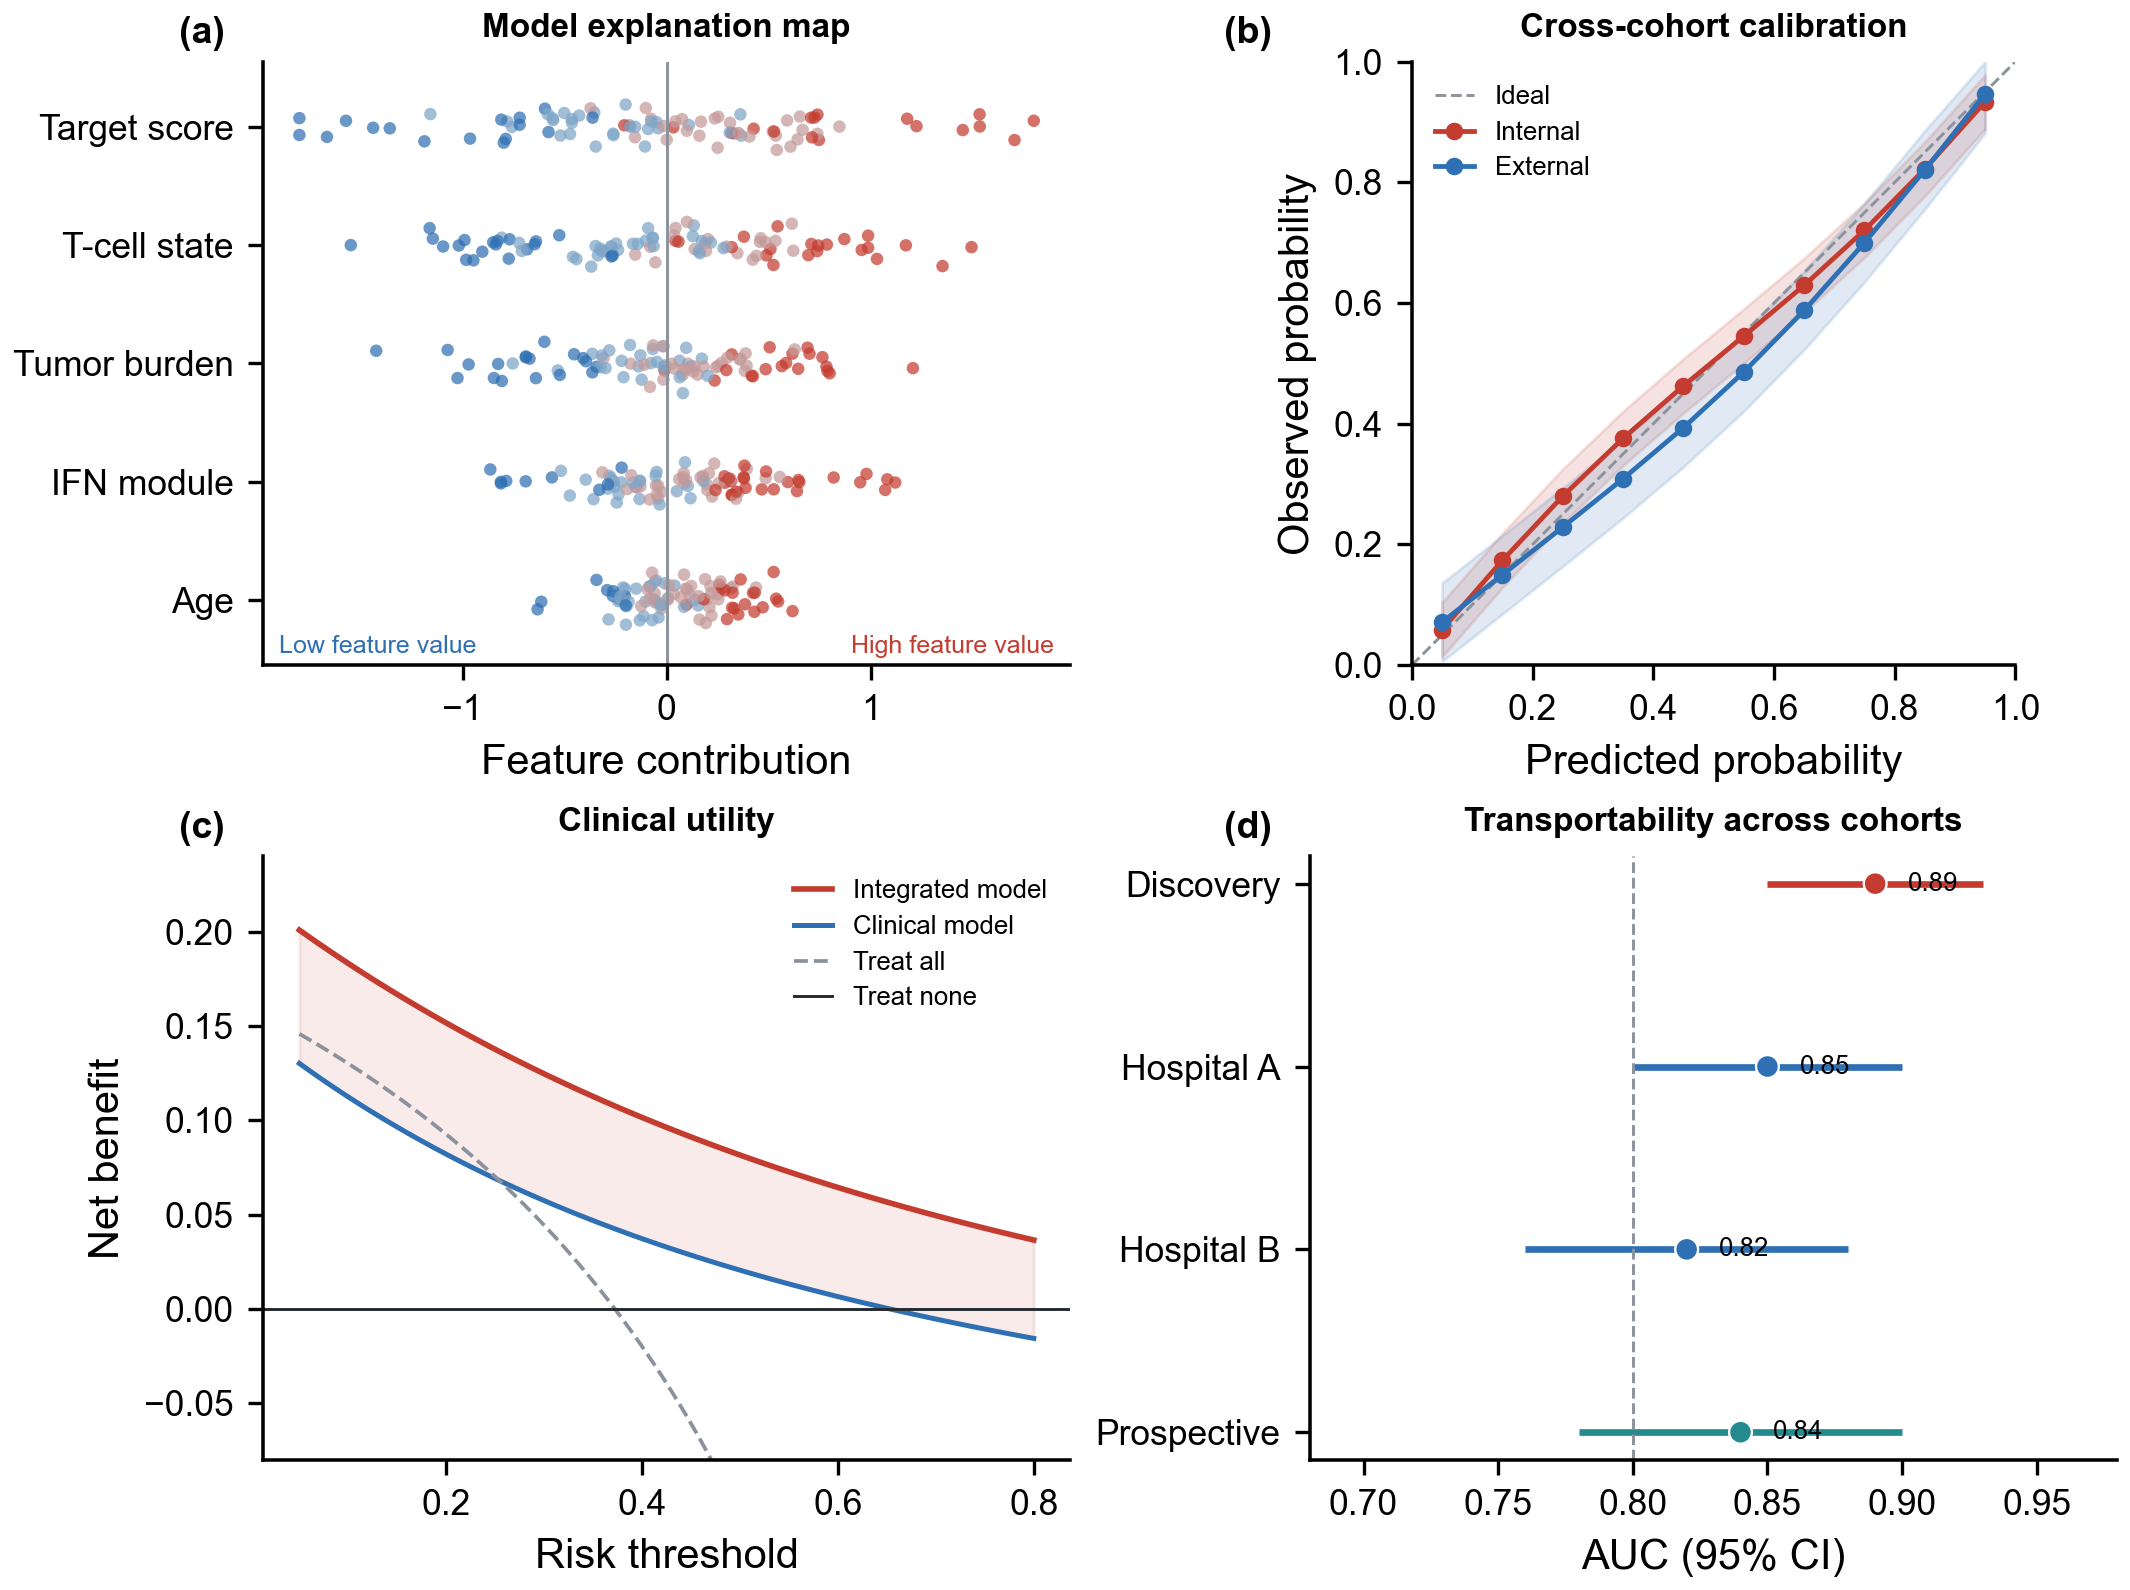
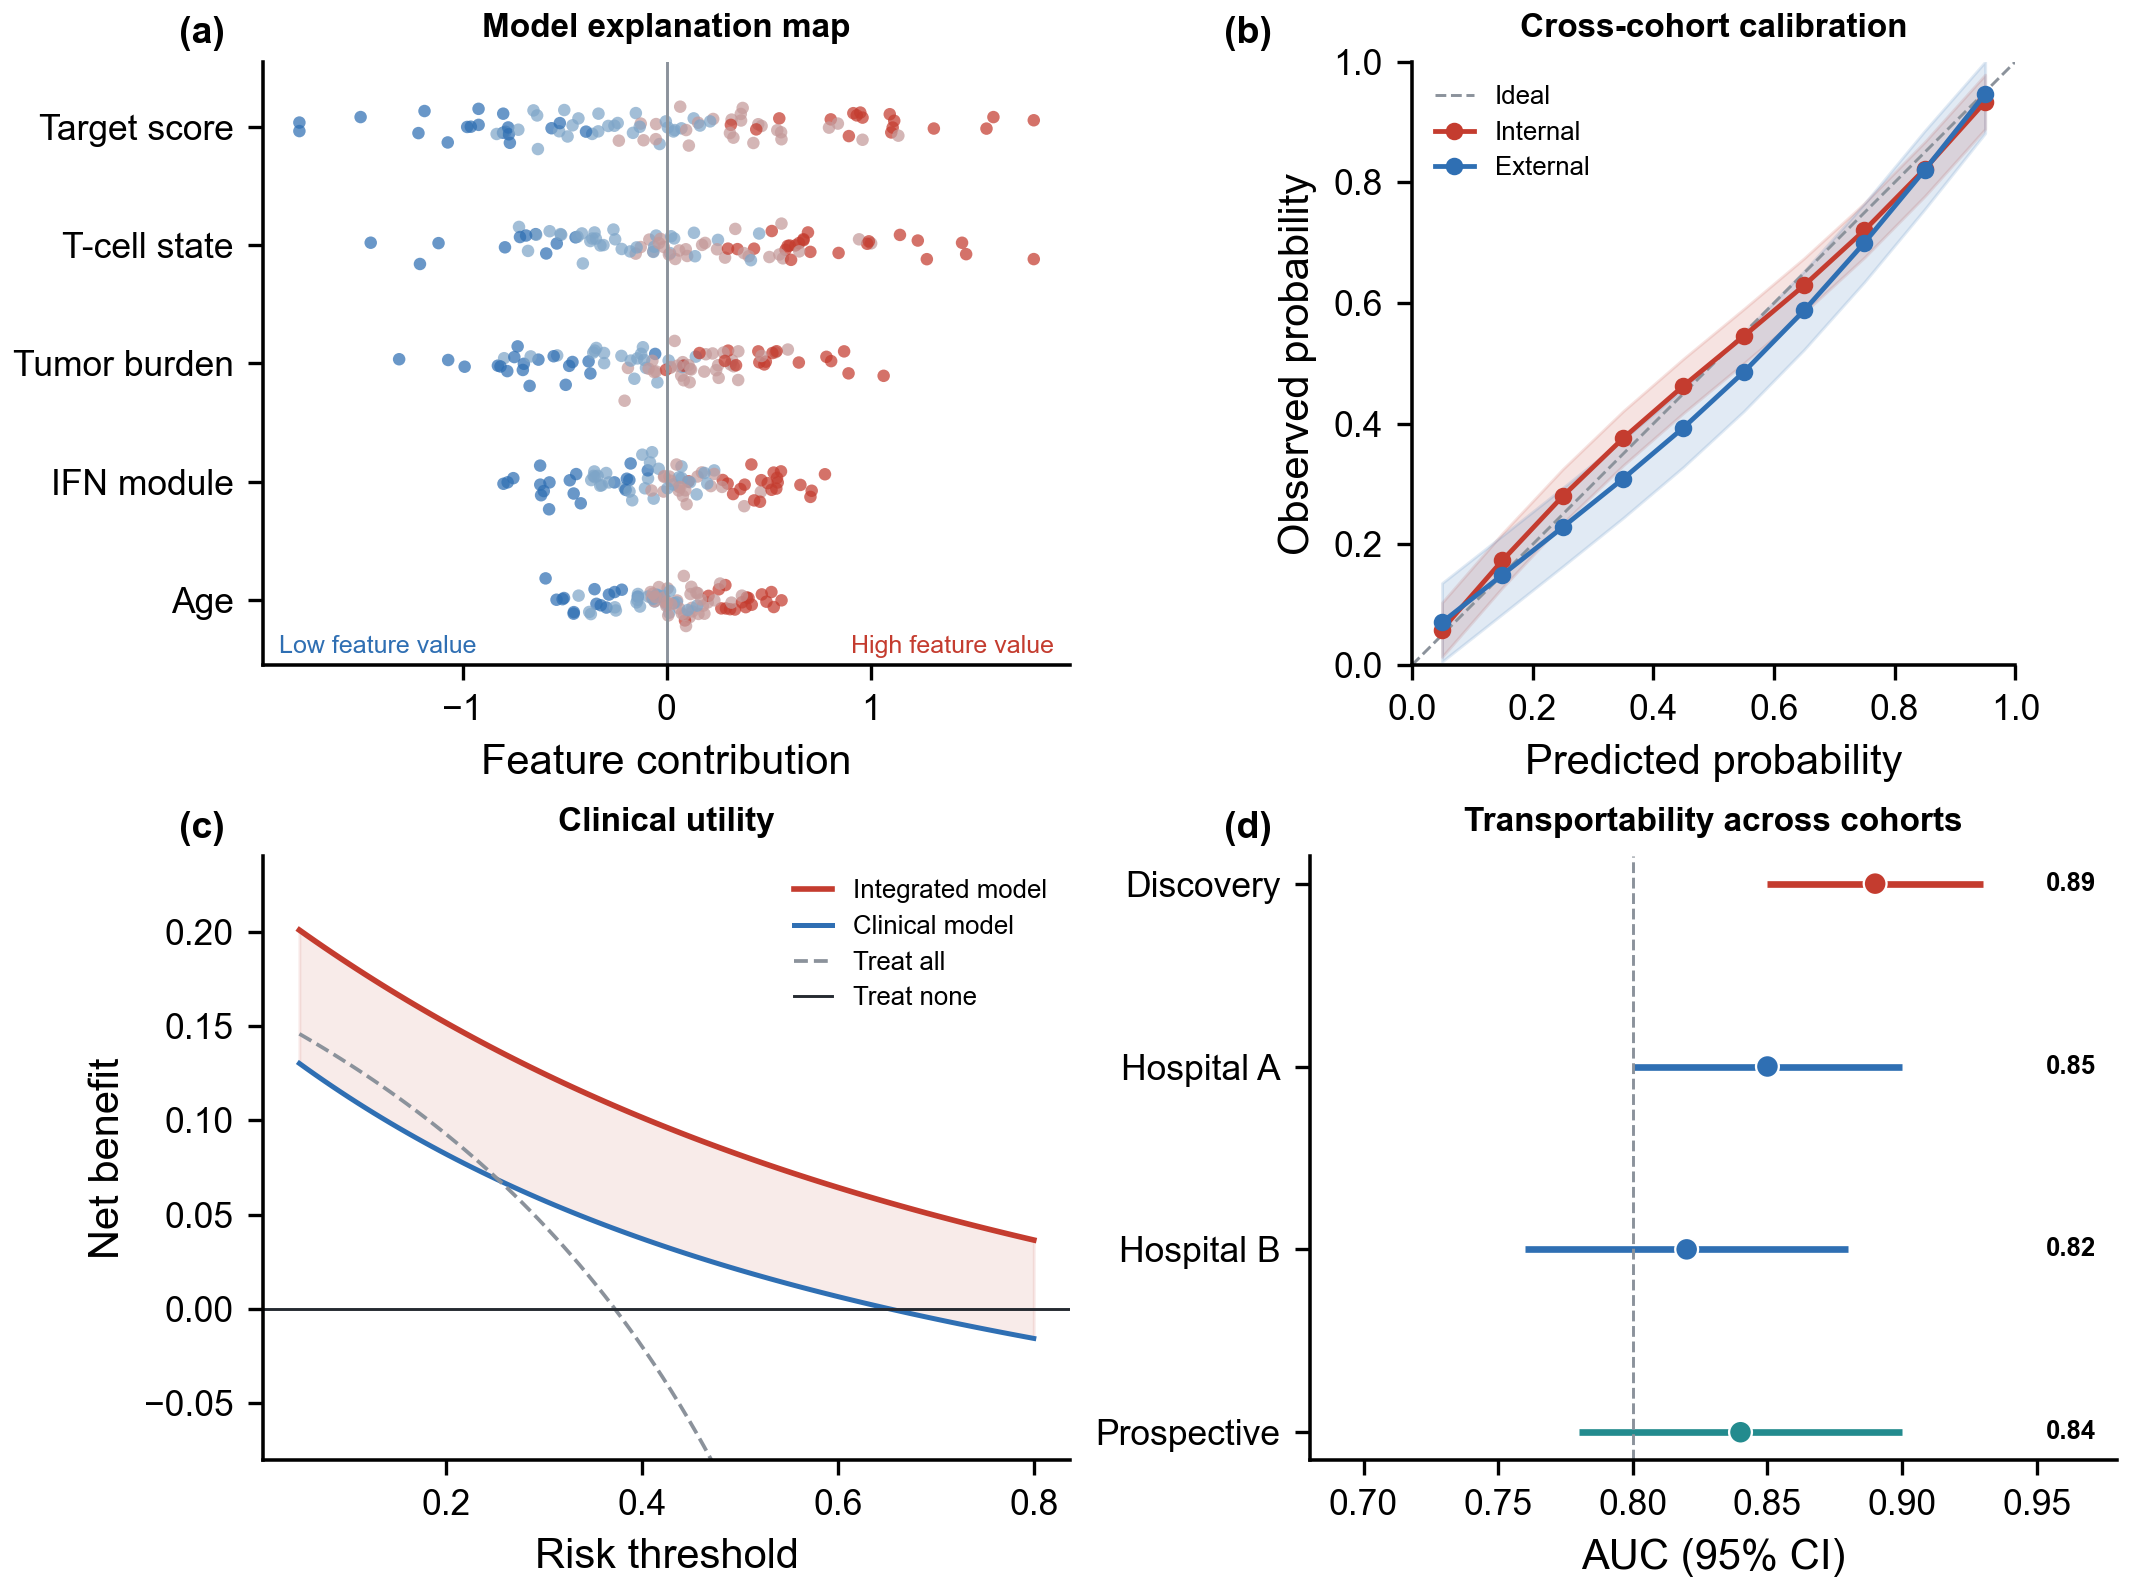
Fix showcase readability and atlas realism

diff --git a/demo/figure_sources/make_demo_suite.py b/demo/figure_sources/make_demo_suite.py
@@ -12,7 +12,8 @@ import matplotlib
 matplotlib.use("Agg")
 import matplotlib.pyplot as plt
 import numpy as np
-from matplotlib.patches import Circle, FancyArrowPatch, Patch
+from matplotlib.path import Path as MplPath
+from matplotlib.patches import Circle, FancyArrowPatch, Patch, Polygon
 from matplotlib.ticker import NullFormatter
 
 
@@ -298,86 +299,135 @@ def figure_4_cell_atlas() -> None:
     fig, axs = plt.subplots(2, 2, figsize=(7.1, 5.3), constrained_layout=True)
     a, b, c, d = axs.ravel()
 
-    # Synthetic low-dimensional cell atlas.
-    centers = np.array([[-2.1, 1.0], [-0.5, -1.2], [1.7, 1.1], [2.2, -1.4]])
-    names = ["T cell", "Myeloid", "Tumor", "Stromal"]
-    colors = [BLUE, GOLD, RED, TEAL]
-    for i, (center, name, color) in enumerate(zip(centers, names, colors)):
-        cloud = rng.normal(size=(150, 2)) @ np.array([[0.58, 0.10], [0.0, 0.38]])
-        cloud += center
-        a.scatter(cloud[:, 0], cloud[:, 1], s=7, color=color, alpha=0.64,
+    # Organic, non-isotropic UMAP-like manifolds with related immune states nearby.
+    specs = [
+        ("CD4 T", BLUE, (-2.55, 1.10), (0.68, 0.30), 18, 0.22, 260),
+        ("CD8 T", "#6FA4D1", (-1.35, 1.55), (0.74, 0.26), -12, -0.18, 280),
+        ("NK", GREEN, (-0.25, 1.28), (0.40, 0.22), 6, 0.12, 150),
+        ("B", PURPLE, (-2.80, -0.12), (0.40, 0.27), -8, -0.10, 135),
+        ("Myeloid", GOLD, (-1.10, -0.75), (0.92, 0.48), -14, 0.28, 420),
+        ("Tumor", RED, (1.45, 0.48), (1.10, 0.58), 14, -0.34, 520),
+        ("Fibroblast", TEAL, (1.55, -1.18), (0.78, 0.27), 17, 0.22, 230),
+        ("Endothelial", "#7B8794", (0.20, -1.18), (0.44, 0.23), -8, -0.12, 140),
+    ]
+    label_positions = {
+        "CD4 T": (-3.25, 1.95), "CD8 T": (-1.55, 2.20), "NK": (-0.18, 1.95),
+        "B": (-3.35, -0.72), "Myeloid": (-1.30, -1.85), "Tumor": (2.45, 1.70),
+        "Fibroblast": (2.20, -1.80), "Endothelial": (0.15, -1.78),
+    }
+    for name, color, center, scale, angle, bend, n in specs:
+        z = rng.normal(size=(n, 2))
+        z[:, 0] += bend * (z[:, 1] ** 2 - 1) + 0.08 * np.sin(3 * z[:, 1])
+        z[:, 1] += 0.09 * np.sin(2.2 * z[:, 0])
+        z *= np.asarray(scale)
+        radians = np.deg2rad(angle)
+        rotation = np.array([[np.cos(radians), -np.sin(radians)],
+                             [np.sin(radians), np.cos(radians)]])
+        cloud = z @ rotation.T + np.asarray(center)
+        a.scatter(cloud[:, 0], cloud[:, 1], s=3.4, color=color, alpha=0.70,
                   edgecolor="none", rasterized=False)
-        offset = (0.0, 0.74 if i != 1 else -0.74)
-        a.text(center[0] + offset[0], center[1] + offset[1], name,
-               ha="center", va="center", color=color, fontsize=6.5,
-               fontweight="bold")
-    a.set(xlabel="UMAP 1", ylabel="UMAP 2", title="Single-cell atlas")
+        a.annotate(name, xy=center, xytext=label_positions[name],
+                   color=color, fontsize=5.8, fontweight="bold", ha="center",
+                   arrowprops={"arrowstyle": "-", "color": color, "lw": 0.55})
+    a.set(xlabel="UMAP 1", ylabel="UMAP 2", title="Integrated cell atlas",
+          xlim=(-3.9, 3.1), ylim=(-2.15, 2.45))
     a.set_xticks([])
     a.set_yticks([])
 
-    # Branched pseudotime with discrete color steps to keep SVG fully vector.
-    t = np.linspace(0, 1, 95)
-    trunk_x = -2.7 + 3.0 * t
-    trunk_y = -0.6 + 0.55 * np.sin(np.pi * t)
-    branches = [
-        (trunk_x, trunk_y),
-        (0.15 + 2.4 * t, -0.08 + 1.45 * t + 0.12 * np.sin(5 * t)),
-        (0.15 + 2.4 * t, -0.08 - 1.35 * t + 0.10 * np.sin(5 * t)),
-    ]
+    # Myeloid subclustering with a fitted principal trajectory over the embedding.
+    t_main = rng.uniform(0, 1, 620)
+    main_x = -2.55 + 4.75 * t_main + 0.18 * np.sin(3 * np.pi * t_main)
+    main_y = 0.62 * np.sin(1.35 * np.pi * t_main) - 0.22 * t_main
+    main_x += rng.normal(0, 0.13, len(t_main))
+    main_y += rng.normal(0, 0.15, len(t_main))
+    t_branch = rng.uniform(0.42, 1, 230)
+    s = (t_branch - 0.42) / 0.58
+    branch_x = -0.55 + 2.25 * s + rng.normal(0, 0.13, len(s))
+    branch_y = 0.48 - 1.55 * s + 0.10 * np.sin(2 * np.pi * s)
+    branch_y += rng.normal(0, 0.13, len(s))
+    tx = np.r_[main_x, branch_x]
+    ty = np.r_[main_y, branch_y]
+    pseudotime = np.r_[t_main, t_branch]
     time_colors = ["#D9E8F5", "#A7CBE5", "#6EA7D0", "#3E7EB6", "#1F568B"]
-    for j, (x, y) in enumerate(branches):
-        b.plot(x, y, color=LIGHT, lw=2.0, zorder=1)
-        for k, color in enumerate(time_colors):
-            mask = (t >= k / 5) & (t <= (k + 1) / 5)
-            jitter_x = rng.normal(0, 0.035, mask.sum())
-            jitter_y = rng.normal(0, 0.045, mask.sum())
-            b.scatter(x[mask] + jitter_x, y[mask] + jitter_y, s=8,
-                      color=color, edgecolor="none", zorder=2)
-        if j:
-            b.annotate("", xy=(x[-1], y[-1]), xytext=(x[-8], y[-8]),
-                       arrowprops={"arrowstyle": "-|>", "color": DARK,
-                                   "lw": 0.8})
-    b.text(-2.65, -0.92, "Early", color=GRAY, fontsize=6)
-    b.text(2.55, 1.54, "Inflammatory", color=BLUE, fontsize=6, ha="right")
-    b.text(2.55, -1.62, "Exhausted", color=BLUE, fontsize=6, ha="right")
-    b.set(xlabel="Latent dimension 1", ylabel="Latent dimension 2",
-          title="Branched cell-state trajectory")
+    for k, color in enumerate(time_colors):
+        mask = (pseudotime >= k / 5) & (pseudotime <= (k + 1) / 5)
+        b.scatter(tx[mask], ty[mask], s=4.2, color=color, edgecolor="none", alpha=0.76)
+    curve_t = np.linspace(0, 1, 160)
+    b.plot(-2.55 + 4.75 * curve_t + 0.18 * np.sin(3 * np.pi * curve_t),
+           0.62 * np.sin(1.35 * np.pi * curve_t) - 0.22 * curve_t,
+           color=DARK, lw=0.8)
+    curve_s = np.linspace(0, 1, 100)
+    b.plot(-0.55 + 2.25 * curve_s,
+           0.48 - 1.55 * curve_s + 0.10 * np.sin(2 * np.pi * curve_s),
+           color=DARK, lw=0.8)
+    b.text(-2.58, -0.28, "Mono", color=GRAY, fontsize=6)
+    b.text(2.18, -0.20, "TAM", color=BLUE, fontsize=6, ha="right")
+    b.text(2.34, -1.43, "DC-like", color=BLUE, fontsize=6, ha="right",
+           va="bottom")
+    b.legend(handles=[Patch(facecolor=color, edgecolor="none", label=label)
+                      for color, label in zip(time_colors, ["0", ".25", ".5", ".75", "1"])],
+             title="Pseudotime", ncol=5, loc="lower left", fontsize=5.1,
+             title_fontsize=5.4, handlelength=0.7, columnspacing=0.55)
+    b.set(xlabel="UMAP 1", ylabel="UMAP 2", title="Myeloid-state trajectory",
+          xlim=(-2.9, 2.5), ylim=(-1.55, 1.05))
     b.set_xticks([])
     b.set_yticks([])
 
-    # Spatial cell neighborhoods inside a tissue boundary.
-    points = rng.uniform([-2.5, -1.7], [2.5, 1.7], size=(900, 2))
-    inside = (points[:, 0] / 2.45) ** 2 + (points[:, 1] / 1.55) ** 2 < 1
-    points = points[inside]
-    score = (np.exp(-((points[:, 0] - 0.7) ** 2 +
-                      (points[:, 1] - 0.25) ** 2) / 0.75)
-             + 0.55 * np.exp(-((points[:, 0] + 1.1) ** 2 +
-                               (points[:, 1] + 0.55) ** 2) / 0.45))
-    groups = np.digitize(score, [0.18, 0.48])
-    spatial_colors = np.array(["#D7DCE2", "#7FC2C2", "#C43C2F"])
-    c.scatter(points[:, 0], points[:, 1], s=9, color=spatial_colors[groups],
-              edgecolor="white", linewidth=0.12)
+    # Hexagonal spatial spots on an irregular tissue section, with a scale bar.
     theta = np.linspace(0, 2 * np.pi, 240)
-    c.plot(2.45 * np.cos(theta), 1.55 * np.sin(theta), color=DARK, lw=0.85)
-    c.legend(handles=[
-        Patch(facecolor=spatial_colors[0], label="Background"),
-        Patch(facecolor=spatial_colors[1], label="Immune niche"),
-        Patch(facecolor=spatial_colors[2], label="Tumor core"),
-    ], loc="upper left", fontsize=6.2)
+    radius = 1 + 0.11 * np.sin(3 * theta + 0.5) + 0.07 * np.cos(5 * theta)
+    boundary = np.c_[2.30 * radius * np.cos(theta), 1.50 * radius * np.sin(theta)]
+    tissue_path = MplPath(boundary, closed=True)
+    c.add_patch(Polygon(boundary, closed=True, facecolor="#F6EEEA", edgecolor=DARK,
+                        linewidth=0.75, zorder=0))
+    spots = []
+    for row, y0 in enumerate(np.arange(-1.62, 1.63, 0.16)):
+        xs = np.arange(-2.55, 2.56, 0.16) + (0.08 if row % 2 else 0)
+        spots.extend((x0, y0) for x0 in xs)
+    spots = np.asarray(spots)
+    spots = spots[tissue_path.contains_points(spots)]
+    tumor_score = np.exp(-((spots[:, 0] - 0.70) ** 2 / 0.80 +
+                           (spots[:, 1] - 0.15) ** 2 / 0.48))
+    immune_score = np.exp(-((spots[:, 0] + 0.35) ** 2 / 0.34 +
+                            (spots[:, 1] - 0.55) ** 2 / 0.22))
+    myeloid_score = np.exp(-((spots[:, 0] - 0.05) ** 2 / 0.50 +
+                             (spots[:, 1] + 0.65) ** 2 / 0.25))
+    domain = np.full(len(spots), 3)
+    domain[myeloid_score > 0.42] = 2
+    domain[immune_score > 0.38] = 1
+    domain[tumor_score > 0.36] = 0
+    spatial_colors = np.array([RED, BLUE, GOLD, TEAL])
+    c.scatter(spots[:, 0], spots[:, 1], s=7.2, color=spatial_colors[domain],
+              edgecolor="white", linewidth=0.22, zorder=2)
+    tumor_outline = 1 + 0.09 * np.sin(4 * theta)
+    c.plot(0.70 + 0.95 * tumor_outline * np.cos(theta),
+           0.15 + 0.68 * tumor_outline * np.sin(theta),
+           color=RED, lw=0.65, ls="--", zorder=3)
+    c.legend(handles=[Patch(facecolor=color, edgecolor="none", label=label)
+                      for color, label in zip(spatial_colors,
+                                              ["Tumor", "T cell", "Myeloid", "Stroma"])],
+             loc="upper left", ncol=2, fontsize=5.4, handlelength=0.8,
+             columnspacing=0.8)
+    c.plot([1.25, 2.00], [-1.47, -1.47], color=DARK, lw=1.8)
+    c.text(1.625, -1.39, "500 µm", ha="center", va="bottom", fontsize=5.6)
     c.set_aspect("equal")
-    c.set(xlabel="Spatial x", ylabel="Spatial y", title="Spatial neighborhoods")
+    c.set(xlim=(-2.65, 2.65), ylim=(-1.75, 1.75), title="Spatially mapped cell states")
     c.set_xticks([])
     c.set_yticks([])
+    for spine in c.spines.values():
+        spine.set_visible(False)
 
     # Cell-type marker dot plot.
-    cell_types = ["T cell", "Myeloid", "Tumor", "Stromal", "Endothelial"]
-    genes = ["CD3D", "LST1", "EPCAM", "COL1A1", "VWF", "CXCL9"]
+    cell_types = ["CD4 T", "CD8 T", "NK", "Myeloid", "Tumor", "Fibroblast", "Endothelial"]
+    genes = ["CD3D", "CD8A", "NKG7", "LST1", "EPCAM", "COL1A1", "VWF"]
     expression = np.array([
-        [0.92, 0.08, 0.05, 0.04, 0.03, 0.78],
-        [0.10, 0.94, 0.08, 0.12, 0.06, 0.58],
-        [0.05, 0.08, 0.96, 0.10, 0.04, 0.22],
-        [0.04, 0.16, 0.08, 0.92, 0.12, 0.17],
-        [0.03, 0.06, 0.05, 0.14, 0.95, 0.27],
+        [0.95, 0.20, 0.12, 0.05, 0.03, 0.03, 0.02],
+        [0.88, 0.92, 0.42, 0.05, 0.03, 0.03, 0.02],
+        [0.20, 0.55, 0.95, 0.08, 0.03, 0.02, 0.03],
+        [0.05, 0.04, 0.18, 0.96, 0.05, 0.10, 0.05],
+        [0.03, 0.03, 0.05, 0.06, 0.97, 0.08, 0.03],
+        [0.03, 0.02, 0.03, 0.12, 0.05, 0.96, 0.10],
+        [0.02, 0.02, 0.04, 0.08, 0.04, 0.12, 0.97],
     ])
     fraction = np.clip(expression + rng.normal(0, 0.08, expression.shape), 0.04, 1)
     palette = np.array(["#E6E8EB", "#B9D6E8", "#72A9CF", "#2F6FB3"])
@@ -388,9 +438,9 @@ def figure_4_cell_atlas() -> None:
                       color=palette[level], edgecolor="white", linewidth=0.4)
     d.set(xticks=np.arange(len(genes)), xticklabels=genes,
           yticks=np.arange(len(cell_types)), yticklabels=cell_types,
-          title="Marker expression map")
+          title="Canonical marker expression")
     d.tick_params(axis="x", rotation=42)
-    d.set_xlim(-0.65, len(genes) - 0.35)
+    d.set_xlim(-0.65, len(genes) + 1.45)
     d.set_ylim(len(cell_types) - 0.35, -0.65)
     d.grid(color="#ECEEF1", lw=0.45)
     d.legend(handles=[
@@ -398,7 +448,7 @@ def figure_4_cell_atlas() -> None:
                    label="25% cells"),
         plt.Line2D([], [], marker="o", ls="", ms=8, color=GRAY,
                    label="75% cells"),
-    ], loc="lower right", fontsize=6.2)
+    ], loc="center right", fontsize=5.8)
 
     finish(fig, [a, b, c, d], "Fig4_CellAtlas")
 
@@ -590,7 +640,8 @@ def figure_6_model_insight() -> None:
     d.scatter(auc, ypos, s=30, color=[RED, BLUE, BLUE, TEAL],
               edgecolor="white", linewidth=0.55, zorder=3)
     for y0, value in zip(ypos, auc):
-        d.text(value + 0.012, y0, f"{value:.2f}", va="center", fontsize=6.2)
+        d.text(0.972, y0, f"{value:.2f}", ha="right", va="center",
+               fontsize=6.2, fontweight="bold")
     d.axvline(0.80, color=GRAY, lw=0.7, ls="--")
     d.set(yticks=ypos, yticklabels=cohorts, xlabel="AUC (95% CI)",
           xlim=(0.68, 0.98), title="Transportability across cohorts")

diff --git a/README.md b/README.md
@@ -11,20 +11,29 @@ Publication-ready examples spanning efficacy, mechanism, validation,
 single-cell and spatial analysis, systems biology, and interpretable modeling.
 All values are deterministic synthetic demonstration data.
 
-<table>
-  <tr>
-    <td width="50%"><img src="demo/Fig1_Efficacy.png" alt="Efficacy figure"><br><b>Efficacy</b> — distributions, paired response, dose-response, and forest plot</td>
-    <td width="50%"><img src="demo/Fig2_Mechanism.png" alt="Mechanism figure"><br><b>Mechanism</b> — kinetics, coupling, enrichment, and expression heatmap</td>
-  </tr>
-  <tr>
-    <td width="50%"><img src="demo/Fig3_Validation.png" alt="Validation figure"><br><b>Validation</b> — volcano, ROC, survival, and multivariable estimates</td>
-    <td width="50%"><img src="demo/Fig4_CellAtlas.png" alt="Single-cell and spatial figure"><br><b>Cell atlas</b> — UMAP, trajectories, spatial niches, and marker map</td>
-  </tr>
-  <tr>
-    <td width="50%"><img src="demo/Fig5_SystemsMap.png" alt="Systems biology figure"><br><b>Systems map</b> — signaling network, multi-omics, mediation, and response landscape</td>
-    <td width="50%"><img src="demo/Fig6_ModelInsight.png" alt="Interpretable modeling figure"><br><b>Model insight</b> — feature impact, calibration, decision curves, and transportability</td>
-  </tr>
-</table>
+### Efficacy
+
+![Efficacy figure](demo/Fig1_Efficacy.png)
+
+### Mechanism
+
+![Mechanism figure](demo/Fig2_Mechanism.png)
+
+### Validation
+
+![Validation figure](demo/Fig3_Validation.png)
+
+### Single-cell and spatial atlas
+
+![Single-cell and spatial figure](demo/Fig4_CellAtlas.png)
+
+### Systems biology
+
+![Systems biology figure](demo/Fig5_SystemsMap.png)
+
+### Interpretable modeling
+
+![Interpretable modeling figure](demo/Fig6_ModelInsight.png)
 
 ## Highlights
 

diff --git a/skills/polish-sci-figures/SKILL.md b/skills/polish-sci-figures/SKILL.md
@@ -78,8 +78,10 @@ See `references/canvas_profiles.md` for exact matplotlib and audit commands.
 - Avoid default card grids, excessive white boxes, gradients, and decorative frames. For slides, prefer transparent figure backgrounds over a very light slide background unless the template requires otherwise.
 - Build the panel grid before plotting: aligned outer edges, equal gutters, balanced weight, and intentional whitespace only.
 - Keep legends in reserved space and all text, annotations, colorbars, and connectors inside a visible safety margin. Lines must never cross cards, labels, or unrelated objects.
+- Reserve a separate annotation column for numeric labels beside forest plots, intervals, and lollipops; never print values on top of markers or confidence intervals.
 - Use the form that best answers the claim: points plus distributions, rainclouds, paired slopes or estimation plots, lollipops/forest plots, 100% composition plots, vector heatmaps, and lines with uncertainty. Do not add novelty that weakens comparison.
 - Make panels on the same page visibly related: same font hierarchy, line weights, palette, statistical syntax, axes treatment, canvas class, and information density.
+- Treat domain-standard geometry as part of scientific credibility. Benchmark published examples before making a public domain-specific showcase; synthetic single-cell or spatial demos must be clearly disclosed and must not substitute regular Gaussian islands or generic geometric tissue outlines for a plausible atlas or spatial map.
 
 ## Separate artwork from narrative without deleting evidence
 
@@ -104,7 +106,7 @@ For presentations, put the conclusion-style slide title, per-panel explanation, 
 
 **Presentation.** Derive panel canvases from the slide grid before drawing. Use a conclusion-style slide title, figure, then concise per-panel meaning and key finding. Group related results for the available speaking time; keep secondary evidence in backup rather than making the main slide unreadable. Do not show internal file-order numbers on the slide. Name editable files in PPT reading order so the user can locate them.
 
-**Showcase.** Keep the image self-explanatory at 1200 px, disclose synthetic data, and package provenance for published-figure reproductions.
+**Showcase.** Keep the image self-explanatory at 1200 px, disclose synthetic data, and package provenance for published-figure reproductions. Render the actual README or website container at that width. Do not place dense multi-panel figures in two-column gallery cells; use full-width previews or purpose-built thumbnails.
 
 ## Produce and inspect
 